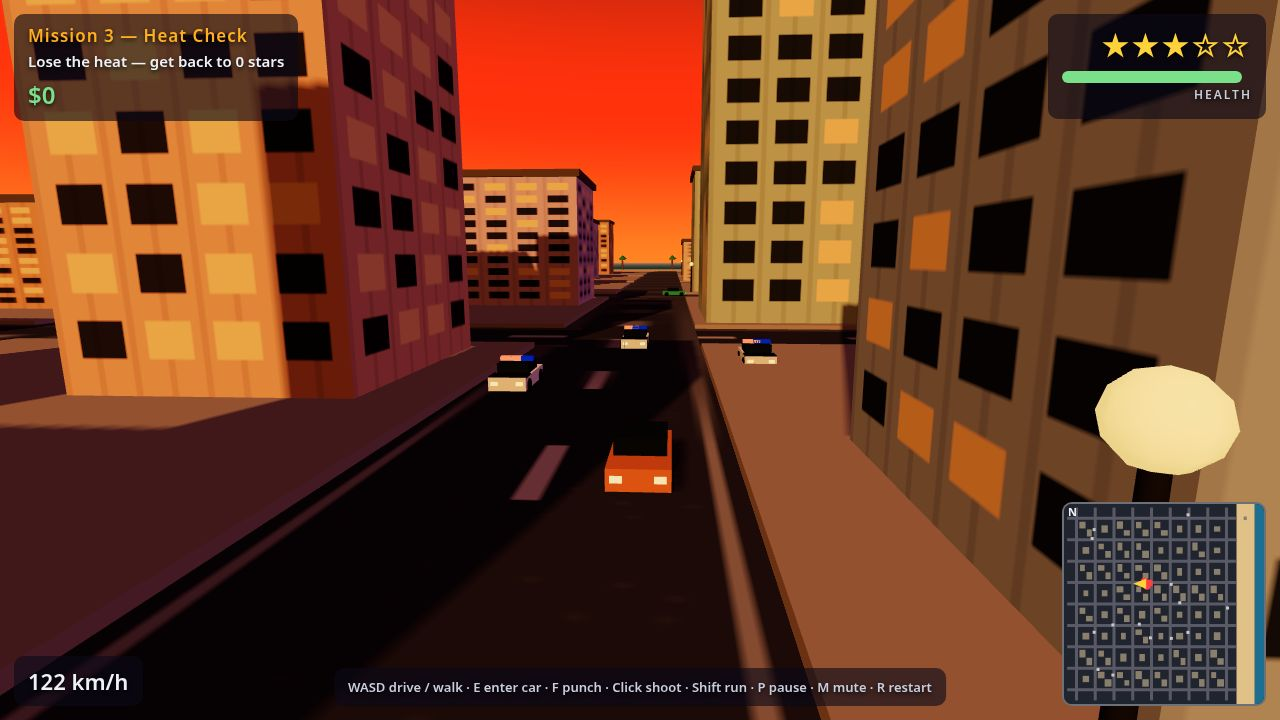
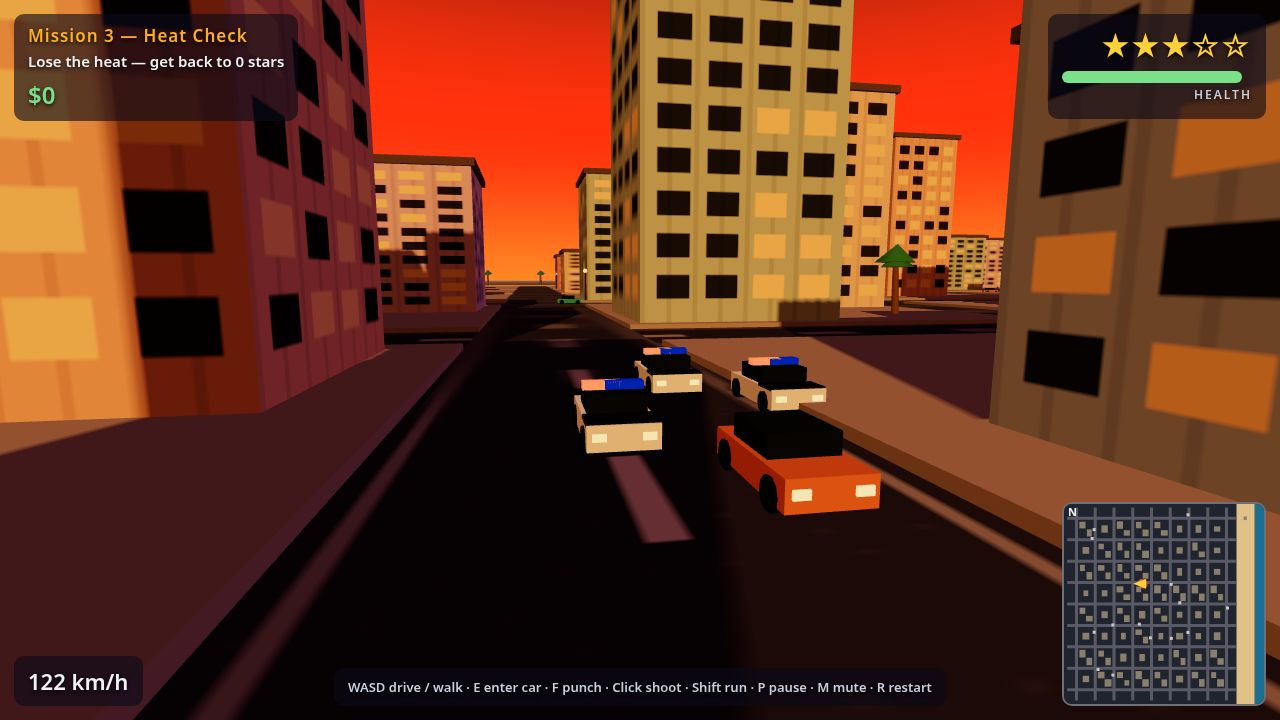
Fix screenshot framing: traffic visible in drive shot, cops close behind in chase shot

diff --git a/game/src/shots.js b/game/src/shots.js
@@ -48,22 +48,38 @@ function stealAndDrive(w, car, seconds) {
   input.keys.delete('KeyW');
 }
 
-// Put two traffic cars on the road ahead of the player, so the frame reads
-// as live traffic: one in the player's lane, one coming the other way.
+// Put traffic cars on the road in the camera's view, beyond the player's
+// car: the shot camera sits ahead of the car looking back east, so cars
+// west of the player sit behind the lens and the road reads as empty.
 function stageTrafficAhead(w) {
   const px = w.player.x;
   const pz = w.player.z;
   const a = w.traffic.cars[0];
   const b = w.traffic.cars[1];
+  const c = w.traffic.cars[2];
   if (a) {
-    a.x = px - 22; a.z = pz; a.heading = -Math.PI / 2; a.speed = 12;
+    a.x = px + 24; a.z = pz; a.heading = -Math.PI / 2; a.speed = 12;
     a.group.position.set(a.x, 0, a.z);
     a.group.rotation.y = a.heading;
   }
   if (b) {
-    b.x = px - 40; b.z = pz - 7; b.heading = Math.PI / 2; b.speed = 11;
+    b.x = px + 42; b.z = pz - 7; b.heading = Math.PI / 2; b.speed = 11;
     b.group.position.set(b.x, 0, b.z);
     b.group.rotation.y = b.heading;
+  }
+  if (c) {
+    c.x = px + 62; c.z = pz; c.heading = -Math.PI / 2; c.speed = 12;
+    c.group.position.set(c.x, 0, c.z);
+    c.group.rotation.y = c.heading;
+  }
+  // One pedestrian on the right-hand sidewalk, in frame.
+  const p = w.peds[0];
+  if (p) {
+    p.x = px + 16; p.z = pz + 8.5;
+    p.tx = p.x; p.tz = p.z;
+    p.heading = -Math.PI / 2;
+    p.mesh.position.set(p.x, 0, p.z);
+    p.mesh.rotation.y = p.heading;
   }
 }
 
@@ -102,12 +118,12 @@ export function stageShot(name, w) {
     input.keys.add('KeyW');
     for (let i = 0; i < CHASE_SECONDS / STEP; i += 1) w.step(STEP);
     input.keys.delete('KeyW');
-    // Fan the cops out behind the player, so the pursuit reads in the frame
-    // instead of hiding directly behind the player's car.
+    // Fan the cops out CLOSE behind the player's car, so the pursuit reads
+    // at a glance: the nearest cop sits right on the player's bumper.
     const px = w.player.x;
     const pz = w.player.z;
     w.police.cars.forEach((cop, i) => {
-      const spots = [[14, -8], [22, 7], [30, -2], [38, 6]];
+      const spots = [[5, -3.5], [9, 3.5], [13, 0]];
       const s = spots[i % spots.length];
       cop.x = px + s[0];
       cop.z = pz + s[1];
@@ -116,11 +132,12 @@ export function stageShot(name, w) {
       cop.group.position.set(cop.x, 0, cop.z);
       cop.group.rotation.y = cop.heading;
     });
-    // Head-on camera above the road centre: the player's car bears down on
-    // the lens with the pursuing cops visible on the road behind it. On the
-    // road centre the sightline is clear of poles and buildings.
-    w.render.camera.position.set(px - 20, 7.5, pz + 1);
-    w.render.camera.lookAt(px + 18, 1, pz - 1);
+    // Head-on camera from the north side of the road, ahead of the player
+    // and looking back east past it: the cops loom right behind the
+    // player's car, and the streetlamp on the (-60,-60) corner stays out
+    // of the lens (it sat ~6 m from the old camera and filled the frame).
+    w.render.camera.position.set(px - 13, 5.0, pz - 6);
+    w.render.camera.lookAt(px + 14, 1.2, pz - 1);
     w.render.draw();
     return 'playing';
   }
